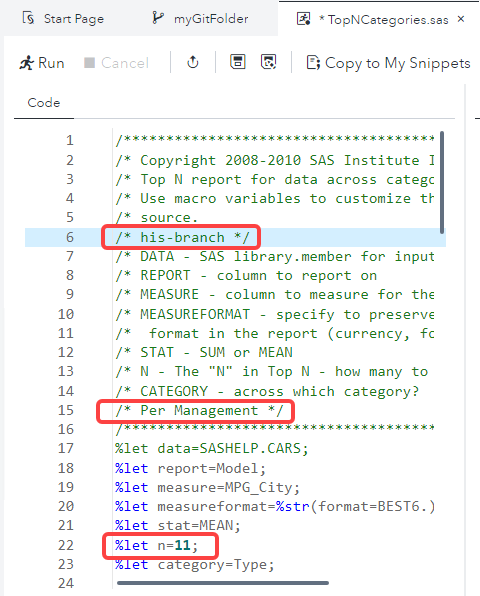
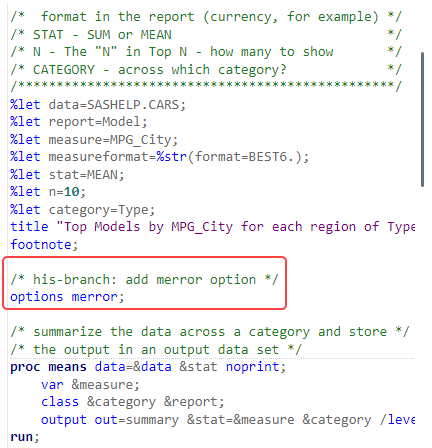
merge, reset and rebase

diff --git a/4_SAS_Studio_GIT_Branches.md b/4_SAS_Studio_GIT_Branches.md
@@ -18,7 +18,7 @@ In this exercise, you will work with GIT branches in SAS Studio.
 1. Click **Sign In**.
 1. Select ![Viya Menu Selector](img/HamburgerMenu.png) **&#10132; Develop Code and Flows** to open *SAS Studio*.
 
-## Create a Branch
+## 1. Create a Branch
 
 1. Select ![](img/GITIcon.png) to view the **GIT** tab in *SAS Studio*.
 2. *Double click* the **myGitFolder** icon.
@@ -35,7 +35,7 @@ In this exercise, you will work with GIT branches in SAS Studio.
 
 ![](img/NewBranch.png)
 
-# Merge a Branch into Main
+# 2. Merge a Branch into Main
 
 1. Select ![](img/ExplorerIcon.png) to view the **Explorer** tab in *SAS Studio*.
 2. *Double click* the **TopNCategories.sas** file in **myGitFolder** to open it.
@@ -52,7 +52,7 @@ In this exercise, you will work with GIT branches in SAS Studio.
     ![](img/MergeBranch.png)
 11. Note that the main and feature branch are both on the same commit now.
 
-# Resolve a Merge Conflict
+# 3. Resolve a Merge Conflict
 
 1. Select ![](img/GitIcon.png) to view the **Git** tab in *SAS Studio*.
 2. Select the **History** tab.
@@ -110,3 +110,58 @@ In this exercise, you will work with GIT branches in SAS Studio.
 11. Stage and Commit with the comment, **Conflict Resolved**.
 12. Check the History tab to see the merge visual is complete.
     ![](img/mergeComplete.png)
+
+# 4. Reset a Branch
+
+1. Be sure to do the previous steps so that your repository is in a modified state and you have a known state (commit), you can reset to.
+2. Open the Git ![](img/GITIcon.png) and select the **History** tab.
+3. Check out **your-branch** by selecting it from the **Current branch** drop down menu.
+4. *Right click* the **main origin/main bug fixes** commit and select **Reset**.
+   >This action takes **your-branch** back to its state at that particular commit.
+![](img/resetCommand.png)
+5. You'll see dialog box asking which reset type you would like to perform.
+   >**Soft** = Only reset the repository.  Leave the changes in the staging area and the working directory.
+
+   >**Mixed** = Reset the repository and the staging area.  Leave the changes in the working directory.
+
+   >**Hard** = Reset the repository, the staging area, and the working directory.  Completely erase the changes.
+   ![](img/resetChoices.png)
+6. Select a **Hard** reset and push **OK**.
+7. After the reset, you'll see **your-branch** has been returned to the commit you selected.
+   >Note that **his-branch** has not been affected.
+8. With **your-branch** checked out, confirm that the changes to your working directory files have been erased.
+9. Check out **his-branch** and reset it to the same commit as well.
+
+
+# 4. Rebase a Branch with Another
+
+1. Check out **his-branch** and add the following code to **TopNCategories.sas** after the **footnote** statement:
+
+        /* his-branch: add merror option */
+        options merror;
+
+   ![](img/hisBranchSave.png)
+2. Close the **TopNCategories.sas** file.
+3. Return to the Git ![](img/GITIcon.png) page, stage and commit the change with the message, **merror**.
+4. Check out **your-branch** and add the following code to **TopNCategories.sas** in the **%let** statement block:
+
+        /* your-branch: Added q macro variable */
+        %let q=16;
+
+![](img/qMacro.png)
+
+5. Save the file, stage and commit the change with the comment, **q macro**.
+6. Select the **History** tab.
+7. Right click the latest commit, **his-branch merror** and select **Rebase your-branch on > Selected Commit**
+   ![](img/rebaseBranch.png)
+8. You will see the following text box:
+   ![](img/rebaseAlert.png)
+
+9.  Select **OK**.
+10. On the **History** tab, note that:
+    >**your-branch** now includes the **his-branch merror** commit.
+
+    >The commit illustration shows no merge.  It's as if **your-branch** was created from **his-branch**. 
+    ![](img/rebaseAfter.png)
+11. Open the **TopNCategories.sas** file and see that it includes the modification from **his-branch**.
+    ![](img/rebaseAfterFile.png)
